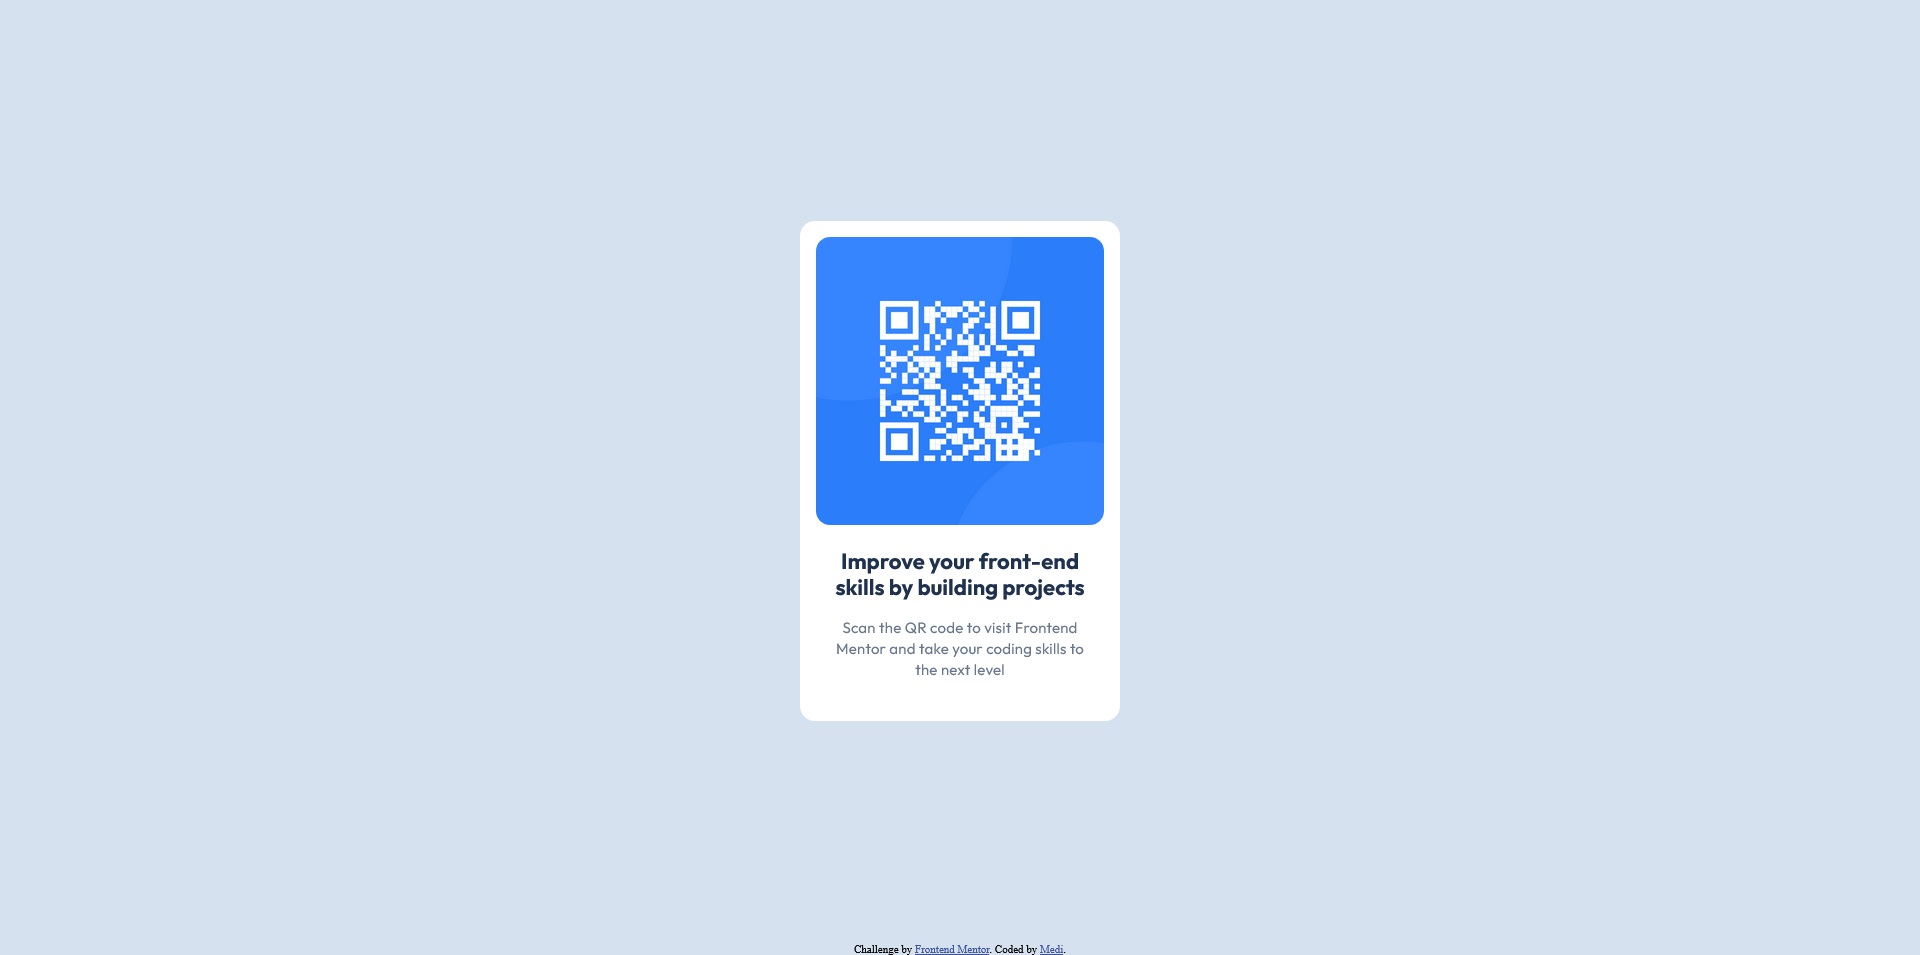
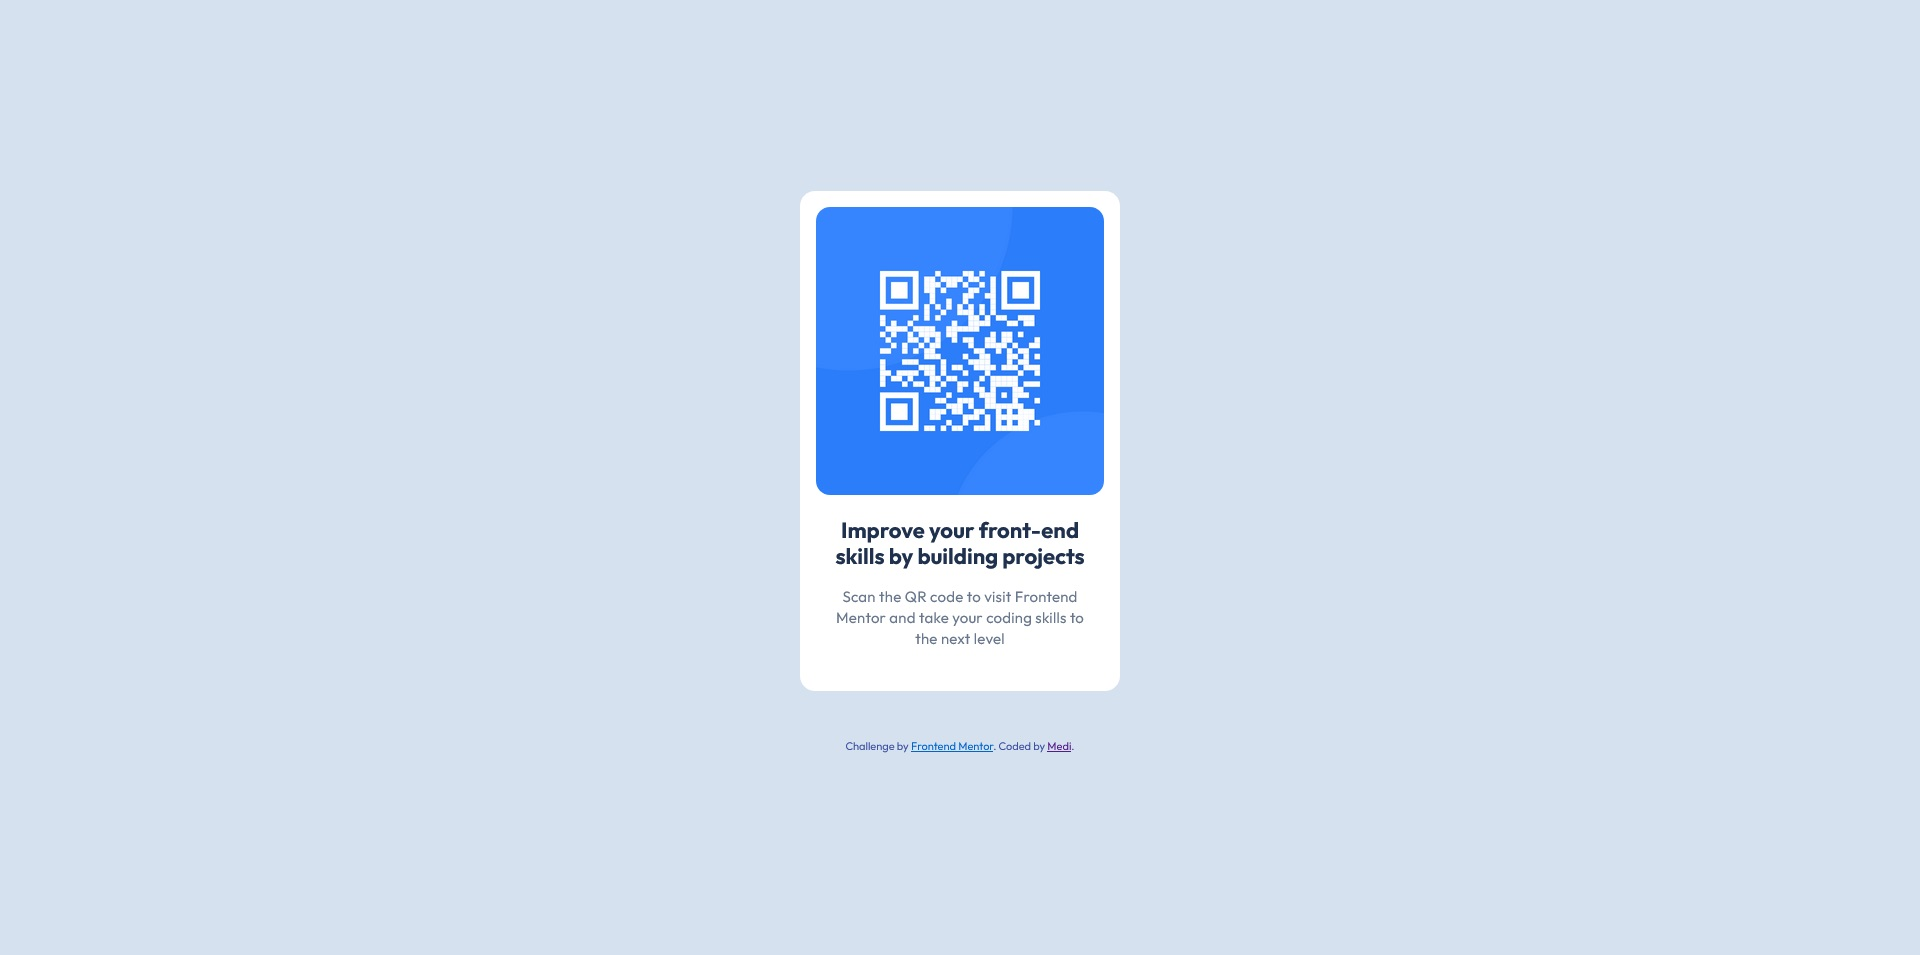
slight changes to better fit mobile

Changed region(s): [[0.4062, 0.1822, 0.5938, 0.4859], [0.4062, 0.5162, 0.5938, 0.7895], [0.4375, 0.9717, 0.5625, 1.0]]

diff --git a/style.css b/style.css
@@ -6,10 +6,11 @@ body {
 }
 .outside {
     background-color: #FFFFFF;
-    width: 320px;
+    max-width: 320px;
+    min-width: 288px;
     height: 500px;
     border-radius: 15px;
-    margin: 20vh auto 10vh auto;
+    margin: 20vh auto 5vh auto;
 }
 img {
     padding: 1rem;
@@ -23,6 +24,7 @@ h1 {
     color: #1F314F;
     font-size: 22px;
     line-height: 120%;
+    font-weight: 700;
 }
 p {
     text-align: center;
@@ -31,6 +33,7 @@ p {
     font-size: 15px;
     letter-spacing: 0.2px;
     line-height: 140%;
+    font-weight: 400;
 }
 .attribution {
     font-size: 11px;
